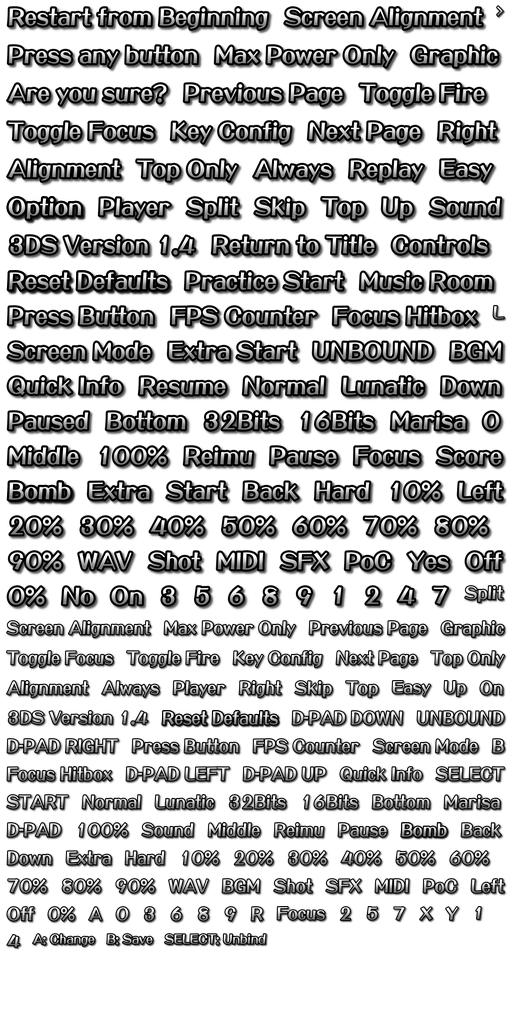
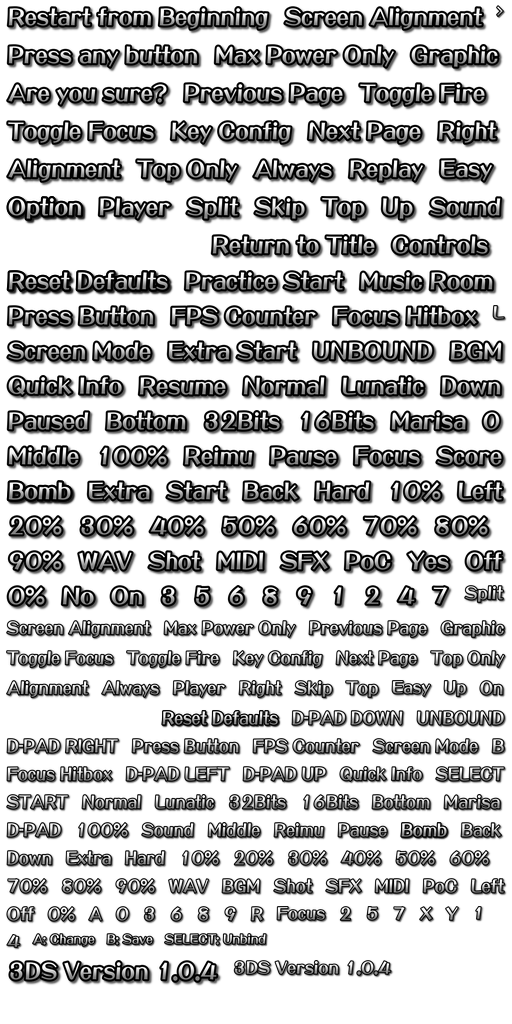
Correct release and title-screen version to 1.0.4

Changed region(s): [[0.0, 0.9375, 0.7812, 0.9688], [0.0, 0.2188, 0.4062, 0.25], [0.0, 0.6875, 0.3125, 0.7188]]

diff --git a/assets/ui-font/ui_labels.hpp b/assets/ui-font/ui_labels.hpp
@@ -26,7 +26,7 @@ inline constexpr Label labels[]={
 {"Skip",248,191,66,37,7,27,"option"},
 {"Top",315,191,59,37,7,27,"option"},
 {"Up",375,191,47,37,7,27,"option"},
-{"3DS Version 1.4",1,229,203,35,7,25,"option"},
+{"3DS Version 1.0.4",1,955,225,35,7,25,"option"},
 {"Return to Title",205,229,179,34,7,24,"menu"},
 {"Reset Defaults",1,265,176,34,7,24,"option"},
 {"Reset Defaults",1,265,176,34,7,24,"option"},
@@ -111,7 +111,7 @@ inline constexpr Label labels[]={
 {"Top",340,675,45,29,6,21,"row"},
 {"Easy",386,675,51,28,6,20,"row"},
 {"Up",438,675,35,28,6,20,"row"},
-{"3DS Version 1.4",1,705,154,27,6,19,"row"},
+{"3DS Version 1.0.4",227,955,171,27,6,19,"row"},
 {"Reset Defaults",156,705,129,27,6,19,"row"},
 {"Reset Defaults",156,705,129,27,6,19,"row"},
 {"D-PAD DOWN",286,705,124,27,6,19,"button"},

diff --git a/tools/package_cia.py b/tools/package_cia.py
@@ -21,5 +21,5 @@ with tempfile.TemporaryDirectory(prefix='th06-banner-') as temporary:
                     '-a', str(silence), '-o', str(build/'th06.bnr')], check=True)
 subprocess.run([args.makerom, '-f', 'cia', '-o', str(build/'th06.cia'), '-rsf', str(root/'packaging/th06.rsf'),
                 '-target', 't', '-elf', str(build/'th06.elf'), '-icon', str(build/'th06.smdh'),
-                '-banner', str(build/'th06.bnr'), '-desc', 'app:4', '-ver', str((1 << 10) | (4 << 4))], check=True)
+                '-banner', str(build/'th06.bnr'), '-desc', 'app:4', '-ver', str((1 << 10) | 4)], check=True)
 print(build/'th06.cia')

diff --git a/src/platform/3ds/Presentation.cpp b/src/platform/3ds/Presentation.cpp
@@ -263,7 +263,7 @@ void DrawPanelInternal(C3D_RenderTarget* bottom) {
             C2D_SetTintMode(C2D_TintSolid);return;
         }
         for(int i=0;i<rowCount;i++) Label(rows[i].label,24+rows[i].slideX,14+i*26+rows[i].slideY,rows[i].selected,rows[i].disabled,false,rows[i].opacity);
-        const auto* version=Find("3DS Version 1.4");
+        const auto* version=Find("3DS Version 1.0.4");
         unsigned opacity=0;
         for(int i=0;i<rowCount;i++)opacity=std::max(opacity,rows[i].opacity);
         if(version)Label(version->text,315-version->w,216,false,false,false,opacity);
